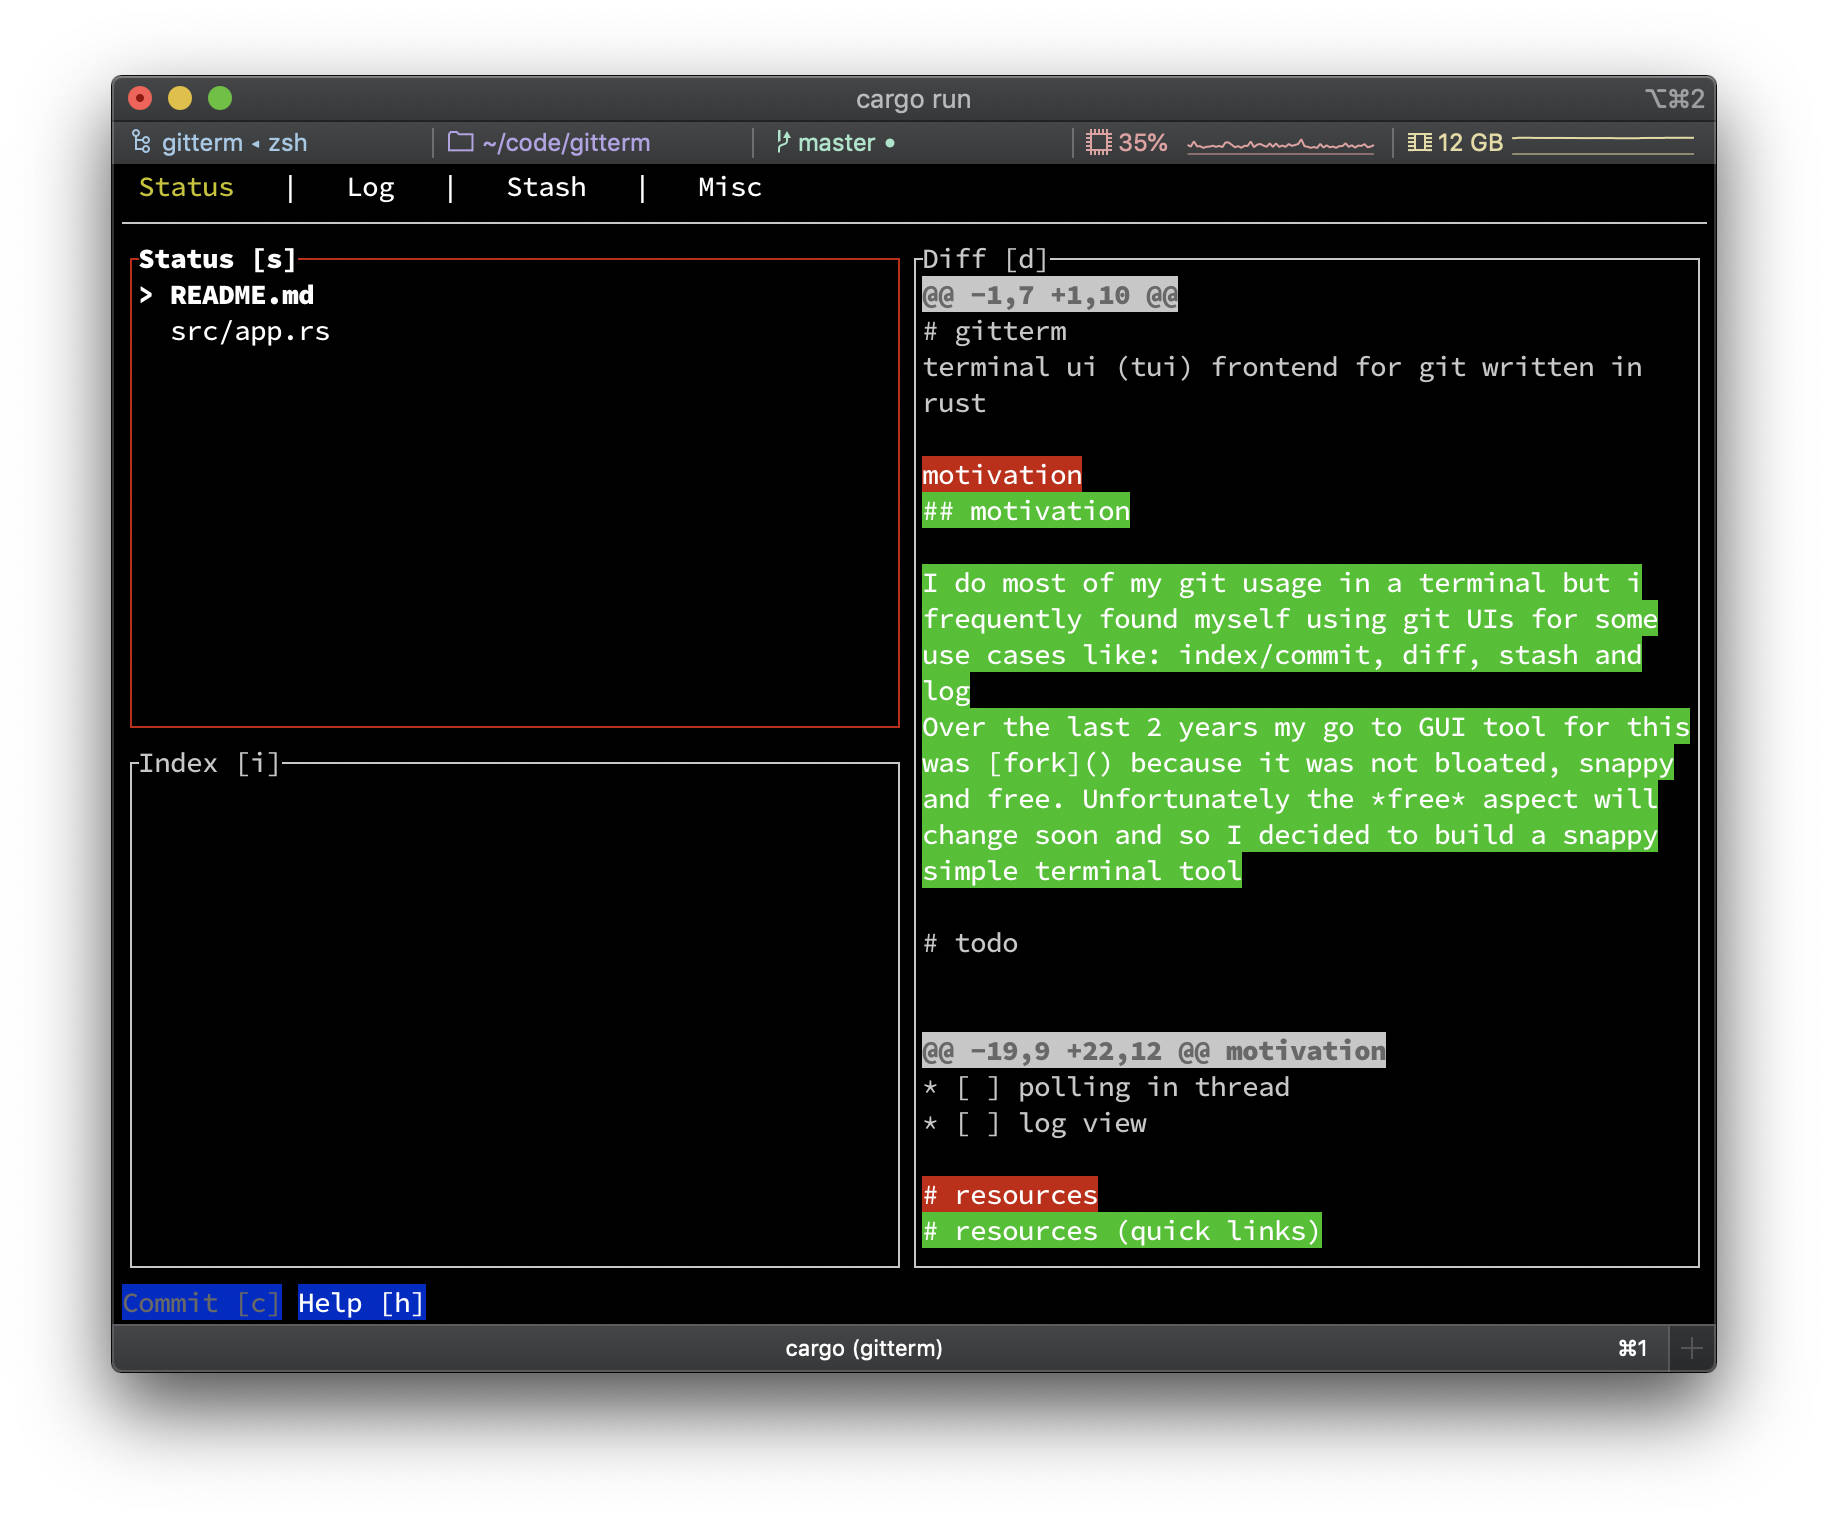
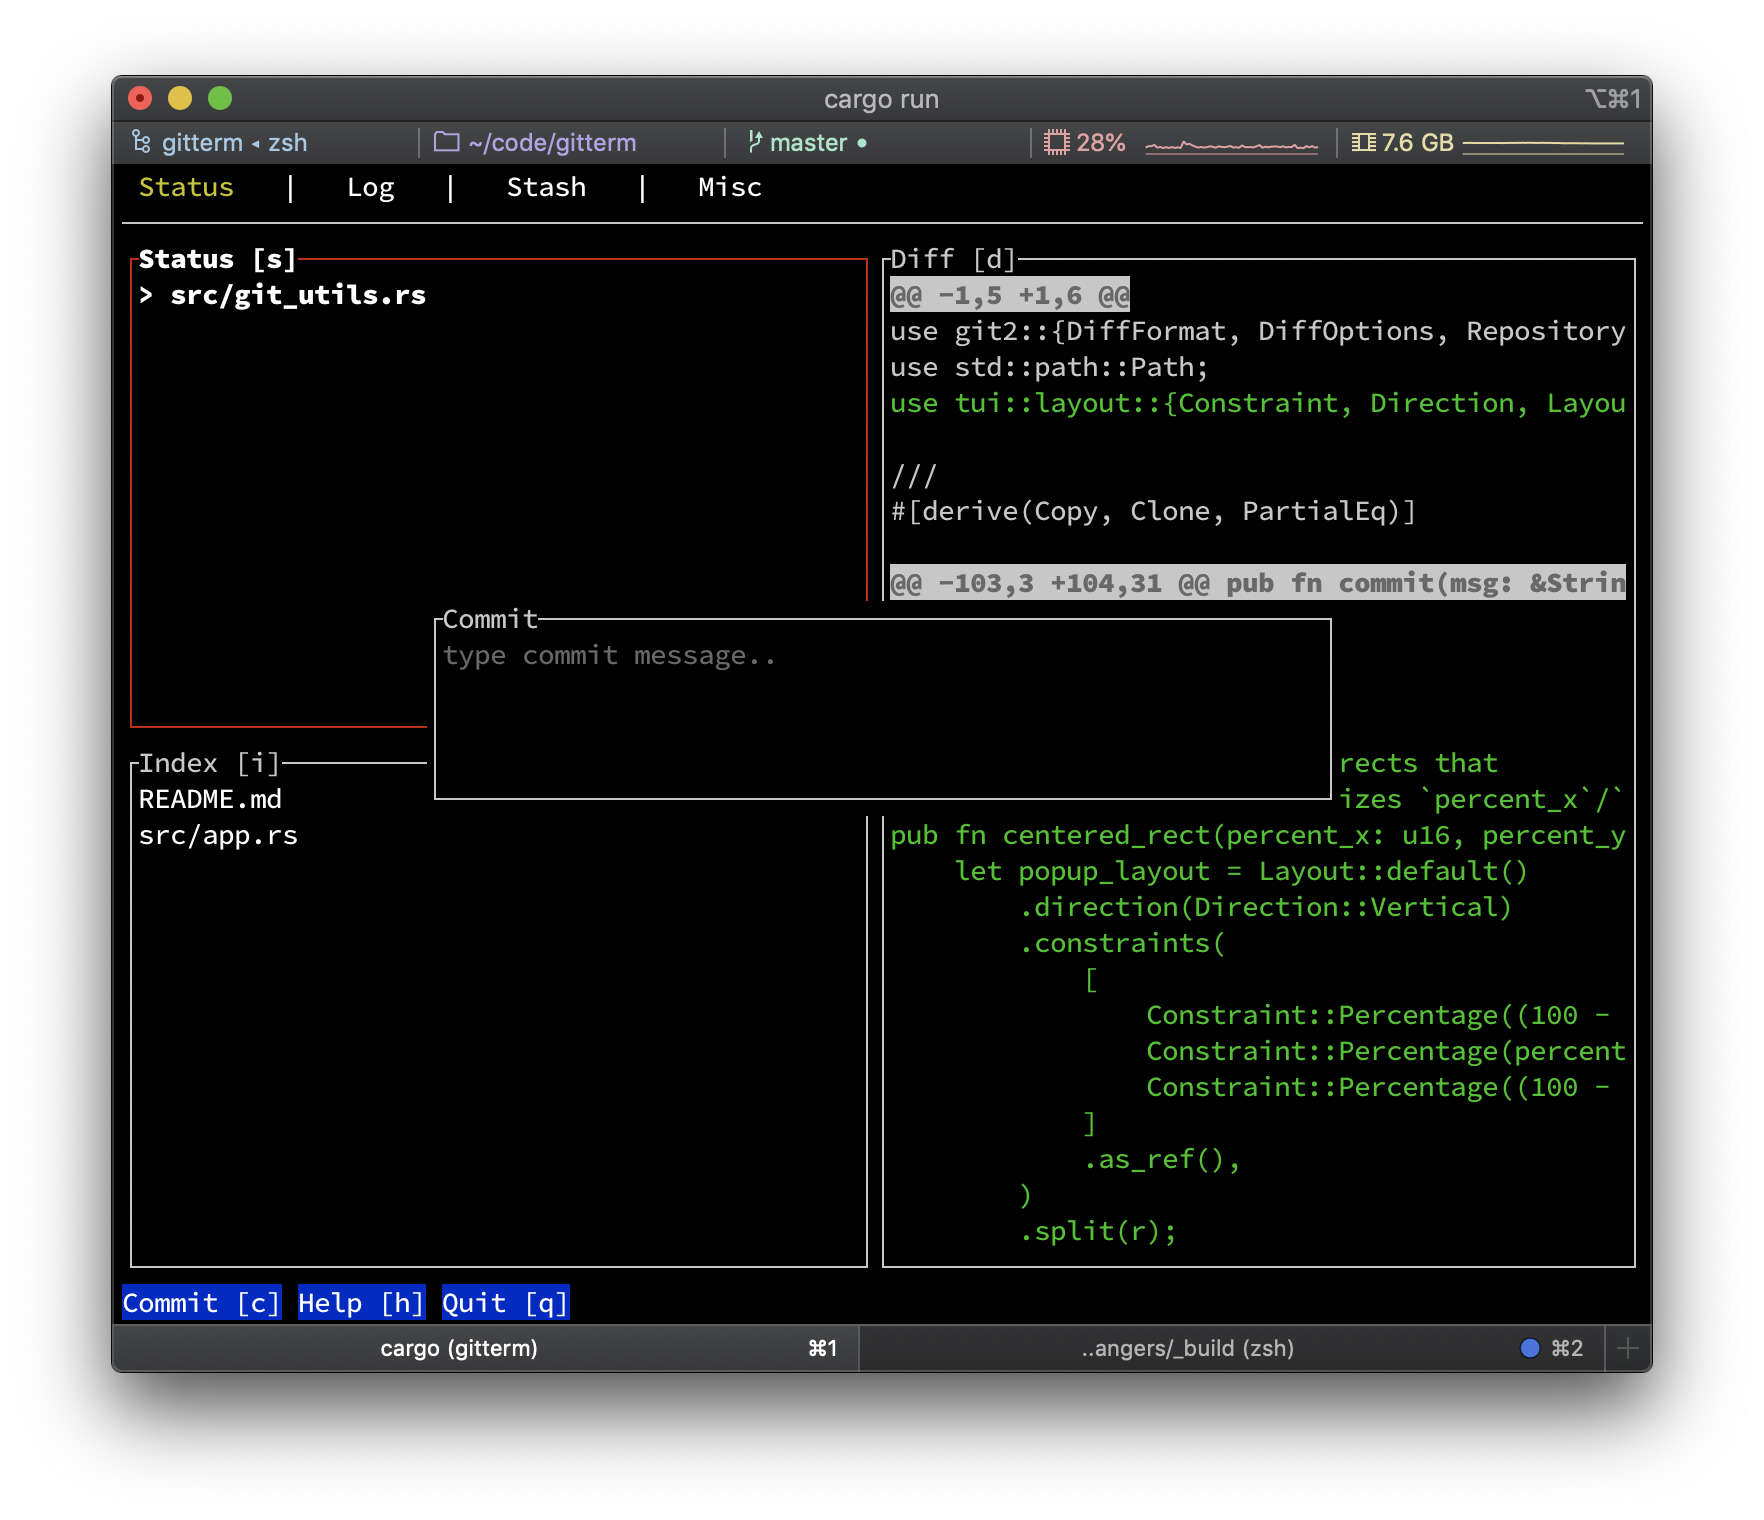
commit popup centered

diff --git a/src/git_utils.rs b/src/git_utils.rs
@@ -1,5 +1,6 @@
 use git2::{DiffFormat, DiffOptions, Repository};
 use std::path::Path;
+use tui::layout::{Constraint, Direction, Layout, Rect};
 
 ///
 #[derive(Copy, Clone, PartialEq)]
@@ -102,4 +103,32 @@ pub fn commit(msg: &String) {
         &[&parent],
     )
     .unwrap();
+}
+
+/// use layouts to create a rects that
+/// centers inside `r` and sizes `percent_x`/`percent_x` of `r`
+pub fn centered_rect(percent_x: u16, percent_y: u16, r: Rect) -> Rect {
+    let popup_layout = Layout::default()
+        .direction(Direction::Vertical)
+        .constraints(
+            [
+                Constraint::Percentage((100 - percent_y) / 2),
+                Constraint::Percentage(percent_y),
+                Constraint::Percentage((100 - percent_y) / 2),
+            ]
+            .as_ref(),
+        )
+        .split(r);
+
+    Layout::default()
+        .direction(Direction::Horizontal)
+        .constraints(
+            [
+                Constraint::Percentage((100 - percent_x) / 2),
+                Constraint::Percentage(percent_x),
+                Constraint::Percentage((100 - percent_x) / 2),
+            ]
+            .as_ref(),
+        )
+        .split(popup_layout[1])[1]
 }

diff --git a/src/app.rs b/src/app.rs
@@ -186,7 +186,7 @@ impl App {
                     .block(Block::default().title("Commit").borders(Borders::ALL))
                     .alignment(Alignment::Left),
             )
-            .render(f, Rect::new(20, 0, 100, 10));
+            .render(f, git_utils::centered_rect(60, 20, f.size()));
         }
     }
 

diff --git a/README.md b/README.md
@@ -19,7 +19,7 @@ Over the last 2 years my go to GUI tool for this was [fork](https://git-fork.com
 * [x] support staging
 * [x] show added files on working dir changes
 * [x] support committing
-* [ ] popup centered
+* [x] popup centered
 * [ ] crash: adding a pic to index crashes
 * [ ] crash: renamed files cannot be added to index
 * [ ] allow selecting/diff index items